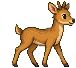
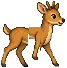
Animate limb cycles and ground the home greet.
Walk, run, and fauna sheets now change paw and wing silhouettes
instead of sliding one pose. The greet scene stands the couple on
the foreground floor at a sofa-relative scale, the cottage door
paints hinged leaves over a warm interior, and forest hints sit
above the caption.

diff --git a/src/stages/home/montage.ts b/src/stages/home/montage.ts
@@ -17,29 +17,45 @@ function drawAlignedDoor(
   mapped: { x: number; y: number; dw: number; dh: number },
   open: number,
 ) {
-  if (open <= 0) return;
   const x = mapped.x + mapped.dw * COTTAGE_DOOR.x;
   const y = mapped.y + mapped.dh * COTTAGE_DOOR.y;
   const w = mapped.dw * COTTAGE_DOOR.w;
   const h = mapped.dh * COTTAGE_DOOR.h;
   const rx = Math.round(x), ry = Math.round(y), rw = Math.round(w), rh = Math.round(h);
-  const glow = g.createLinearGradient(rx, ry, rx + rw, ry);
-  glow.addColorStop(0, `rgba(42, 20, 8, ${0.62 + open * 0.28})`);
-  glow.addColorStop(0.38, `rgba(176, 92, 34, ${0.55 + open * 0.30})`);
-  glow.addColorStop(0.68, `rgba(255, 176, 88, ${0.42 + open * 0.28})`);
-  glow.addColorStop(1, `rgba(64, 28, 10, ${0.55 + open * 0.28})`);
-  g.fillStyle = glow;
+  const o = Math.max(0, Math.min(1, open));
+  // Interior first — the plate paints a closed, warmly lit double door, so
+  // we always cover that leaf and reveal the room through the same jamb.
+  const interior = g.createLinearGradient(rx, ry, rx + rw, ry + rh);
+  interior.addColorStop(0.0, '#1a0c06');
+  interior.addColorStop(0.32, '#8a4218');
+  interior.addColorStop(0.62, '#3d1a08');
+  interior.addColorStop(1.0, '#120806');
+  g.fillStyle = interior;
   g.fillRect(rx, ry, rw, rh);
-  g.fillStyle = `rgba(255, 208, 124, ${0.16 + open * 0.20})`;
-  g.fillRect(rx + Math.round(rw * 0.30), ry + Math.round(rh * 0.12), Math.max(2, Math.round(rw * 0.34)), Math.max(2, Math.round(rh * 0.26)));
-  const vis = Math.max(2, Math.round(rw * Math.max(0.18, Math.cos(open * Math.PI * 0.48))));
+  g.fillStyle = `rgba(255, 196, 120, ${0.10 + o * 0.38})`;
+  g.beginPath();
+  g.ellipse(rx + rw * 0.50, ry + rh * 0.42, rw * 0.22, rh * 0.18, 0, 0, Math.PI * 2);
+  g.fill();
+  // Double leaf hinged left + right. Closed: vis=1 covers the hole.
+  // Open: each half narrows toward its hinge, exposing the interior.
+  const vis = Math.max(0.16, Math.cos(o * Math.PI * 0.46));
+  const half = rw / 2;
+  const lw = Math.max(2, Math.round(half * vis));
   g.imageSmoothingEnabled = false;
   const door = art.plates.cottageDoor;
   if (door) {
-    g.drawImage(door, rx, ry, vis, rh);
-    g.fillStyle = 'rgba(20, 10, 4, 0.35)';
-    g.fillRect(rx + vis, ry, 1, rh);
-  } else swingDoor(g, rx, ry, rw, rh, open, true);
+    const dw = door.width, dh = door.height;
+    const mid = Math.round(dw / 2);
+    g.drawImage(door, 0, 0, mid, dh, rx, ry, lw, rh);
+    g.drawImage(door, mid, 0, dw - mid, dh, rx + rw - lw, ry, lw, rh);
+  } else {
+    swingDoor(g, rx, ry, rw, rh, o, true);
+  }
+  g.strokeStyle = 'rgba(58, 34, 16, 0.95)';
+  g.lineWidth = 2;
+  g.strokeRect(rx + 0.5, ry + 0.5, rw - 1, rh - 1);
+  g.fillStyle = 'rgba(70, 42, 22, 0.92)';
+  g.fillRect(rx - 1, ry + rh - 2, rw + 2, 3);
 }
 
 export const SCENE_IDS = ['walk', 'greet', 'sofa', 'sleep', 'snow', 'dawn'] as const;
@@ -151,10 +167,8 @@ function drawWalk(g: CanvasRenderingContext2D, w: number, h: number, t: number) 
   const doorStart = 3.4;
   const doorDur = 1.6;
   const open = t <= doorStart ? 0 : Math.min(1, (t - doorStart) / doorDur);
-  if (open > 0) {
-    if (mapped) drawAlignedDoor(g, mapped, open);
-    else swingDoor(g, hx + 46, floor - 54, 28, 54, open, true);
-  }
+  if (mapped) drawAlignedDoor(g, mapped, open);
+  else swingDoor(g, hx + 46, floor - 54, 28, 54, open, true);
   const startX = w * 0.14;
   const pauseX = (mapped ? mapped.x + mapped.dw * 0.42 : hx) - 8;
   const arrive = Math.min(1, t / walkT);
@@ -170,25 +184,23 @@ function drawGreet(g: CanvasRenderingContext2D, w: number, h: number, t: number,
   g.save();
   g.beginPath(); g.rect(0, 0, w, h); g.clip();
   const k = Math.min(1, t / 5.6);
-  const herX = Math.min(Math.max(w * 0.40, sofaX - 28), w * 0.56);
-  const himX = herX - 58;
-  const dogSettle = himX - 46;
-  const catSettle = herX + 42;
-  const mid = (himX + herX) / 2;
-  const zoom = 1.08;
-  const visW = w / zoom;
-  const camX = Math.max(visW / 2, Math.min(w - visW / 2, mid));
-  g.translate(w * 0.5, h * 0.70);
-  g.scale(zoom, zoom);
-  g.translate(-camX, -floor);
+  // Furniture stays on the architectural floor. People and pets stand on
+  // the closer floorboards so feet never plant on the coffee table or TV.
+  // Standing adults ~1.8× the drawn sofa height (not giants over it).
+  const feetY = Math.round(floor + (h - floor) * 0.70);
+  const herX = Math.min(Math.max(w * 0.50, sofaX - 4), w * 0.58);
+  const himX = herX - 48;
+  const dogSettle = Math.max(w * 0.20, himX - 40);
+  const catSettle = Math.min(w * 0.78, herX + 36);
   drawFurnished(g, w, h, layout, 1.15);
-  figure(g, 'him', 'stand', himX, floor, false, t, 1);
-  figure(g, 'her', 'stand', herX, floor, false, t, 1);
+  const personS = 0.84;
+  figure(g, 'him', 'stand', himX, feetY, false, t, personS);
+  figure(g, 'her', 'stand', herX, feetY, false, t, personS);
   const rush = 1 - Math.pow(1 - Math.min(1, k / 0.72), 2);
   const dogX = (w + 40) * (1 - rush) + dogSettle * rush;
   const catX = (w + 88) * (1 - rush) + catSettle * rush;
-  pet(g, 'collie', k < 0.74 ? 'walk' : 'extra', dogX, floor, true, t, 1);
-  pet(g, 'calico', k < 0.78 ? 'walk' : 'extra', catX, floor, true, t, 1);
+  pet(g, 'collie', k < 0.74 ? 'walk' : 'extra', dogX, feetY, true, t, 0.78);
+  pet(g, 'calico', k < 0.78 ? 'walk' : 'extra', catX, feetY, true, t, 0.78);
   g.restore();
 }
 

diff --git a/src/stages/mushroom/style.css b/src/stages/mushroom/style.css
@@ -1,10 +1,13 @@
 html, body { background: #1a2830; }
 #mushroom { background: #1a2830; }
-.mu-hint { position: fixed; z-index: 20; left: 0; right: 0; bottom: calc(22px + var(--sab)); margin: 0; text-align: center;
-  color: rgba(210, 232, 226, .78); font-size: 12px; letter-spacing: .18em; text-shadow: 0 1px 8px rgba(0,0,0,.35);
+.mu-hint { position: fixed; z-index: 20; left: 0; right: 0; bottom: calc(108px + var(--sab)); margin: 0; text-align: center;
+  color: rgba(226, 238, 232, .92); font-size: 12px; letter-spacing: .18em; text-shadow: 0 1px 8px rgba(0,0,0,.35);
   opacity: 0; transition: opacity .9s var(--ease); pointer-events: none; }
 .mu-hint.on { opacity: .92; } .mu-hint.on.out { opacity: 0; }
-@media (pointer: coarse) { .mu-hint { bottom: calc(28px + var(--sab)); font-size: 11px; } }
+@media (pointer: coarse) { .mu-hint { bottom: calc(108px + var(--sab)); font-size: 11px; } }
+@media (orientation: landscape), (max-height: 520px) {
+  .mu-hint { bottom: calc(56px + var(--sab)); }
+}
 .gift-chrome { color: rgba(226, 236, 232, .78); }
 .gift-chrome button:hover, .gift-chrome [aria-pressed="true"] { color: #f2f7f4; }
 .gc-lang [aria-pressed="false"] { color: rgba(226, 236, 232, .42); }

diff --git a/src/stages/flower/style.css b/src/stages/flower/style.css
@@ -1,8 +1,11 @@
 html, body { background: #f3d4e0; }
 #flower { background: #f3d4e0; }
-.fl-hint { position: fixed; z-index: 20; left: 0; right: 0; bottom: calc(22px + var(--sab)); margin: 0; text-align: center;
-  color: rgba(62, 36, 48, .78); font-size: 12px; letter-spacing: .18em; text-shadow: 0 1px 0 rgba(255,244,240,.5);
+.fl-hint { position: fixed; z-index: 20; left: 0; right: 0; bottom: calc(108px + var(--sab)); margin: 0; text-align: center;
+  color: rgba(62, 36, 48, .92); font-size: 12px; letter-spacing: .18em; text-shadow: 0 1px 0 rgba(255,244,240,.5);
   opacity: 0; transition: opacity .9s var(--ease); pointer-events: none; }
 .fl-hint.on { opacity: .92; } .fl-hint.on.out { opacity: 0; }
-@media (pointer: coarse) { .fl-hint { bottom: calc(28px + var(--sab)); font-size: 11px; } }
+@media (pointer: coarse) { .fl-hint { bottom: calc(108px + var(--sab)); font-size: 11px; } }
+@media (orientation: landscape), (max-height: 520px) {
+  .fl-hint { bottom: calc(56px + var(--sab)); }
+}
 @media (prefers-reduced-motion: reduce) { .fl-hint { transition: none; } }
